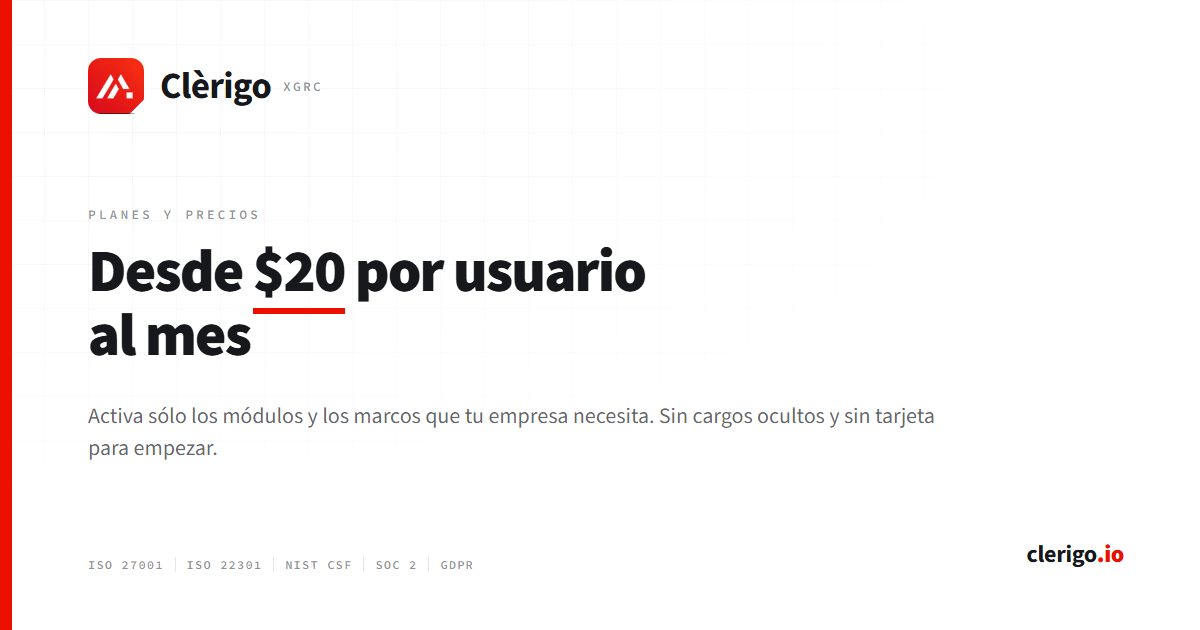
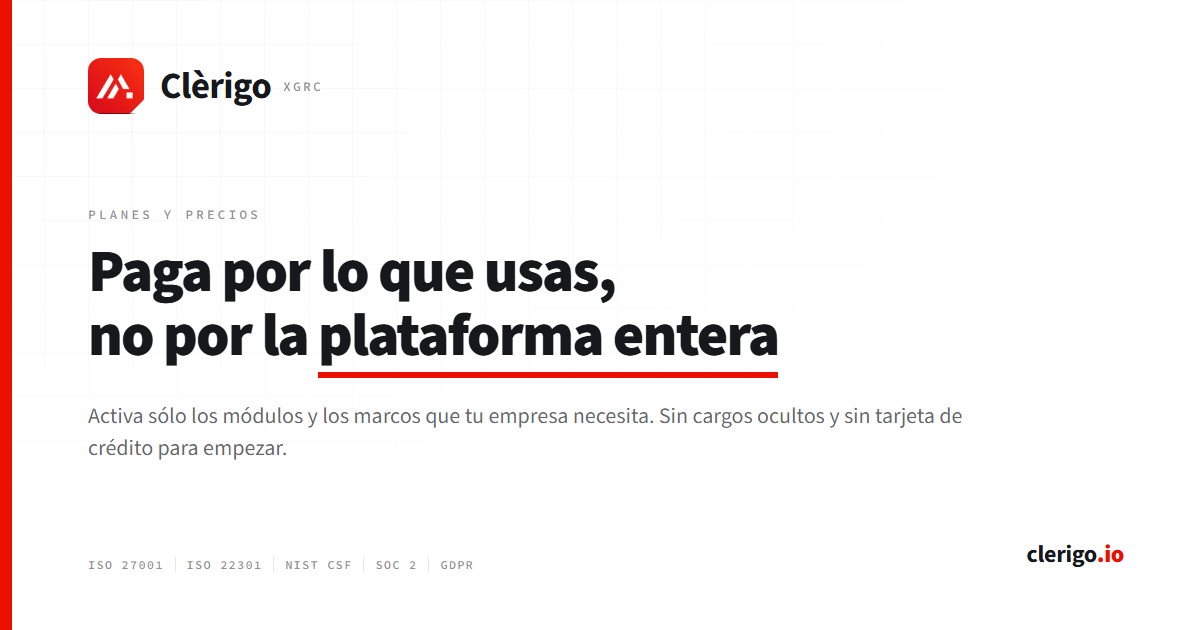
Fuera el precio de donde no debía estar: todavía no está decidido
LO PEOR ERA LO QUE PUSE YO

La ficha de datos estructurados declaraba `offers: { price: "20", currency:
"USD" }`. Un precio ahí NO es como un precio en una página: Google lo lee como
precio en firme y puede enseñarlo debajo del enlace en el resultado, sin
ninguno de los matices. A partir de ahí, toda conversación de venta empieza
anclada en esa cifra. Fuera.

Y la tarjeta de enlace decía «Desde $20 por usuario al mes». Una tarjeta se
pega en un chat y se queda ahí. Ahora dice el MODELO, que sí está decidido y
que además es lo que diferencia: «Paga por lo que usas, no por la plataforma
entera».

DÓNDE MÁS ESTABA

En la descripción de las dos páginas de planes —«Inversión flexible desde
$20/usuario/mes»— que viaja a cuatro etiquetas: description, og:description,
twitter:description y la ficha. Y en `seo.config.json`, en los dos idiomas.

Y en la respuesta del bloque de dudas. Se mantiene entera menos la cifra: lo
que se pregunta es cómo funciona el cobro por usuario, y eso se sigue
contestando —se facturan aparte, anualmente— sin decir cuánto.

LA GUARDA SE DA LA VUELTA

`seo/validar.cjs` exigía que el precio de la ficha fuera el de la página. Ahora
exige lo contrario: que la ficha NO declare precio mientras no esté decidido.
Una comprobación que ya no describe la realidad no se borra, se invierte —así
sigue impidiendo que alguien lo vuelva a poner sin pensarlo.

Cuando el precio esté decidido, se da la vuelta otra vez y vuelve a exigir que
[…]

Changed region(s): [[0.0617, 0.3921, 0.6475, 0.6032], [0.0617, 0.6937, 0.2467, 0.7238], [0.7708, 0.6333, 0.8017, 0.6635]]

diff --git a/es/precios.html b/es/precios.html
@@ -4,7 +4,7 @@
 <meta charset="UTF-8">
 <meta name="viewport" content="width=device-width, initial-scale=1.0">
 <title>Planes y Precios Transparentes | Clèrigo GRC</title>
-<meta name="description" content="Inversión flexible desde $20/usuario/mes. Elige y activa únicamente los módulos y marcos que tu empresa necesita sin cargos ocultos.">
+<meta name="description" content="Elige y activa únicamente los módulos y marcos que tu empresa necesita. Se paga por lo que se usa, sin cargos ocultos y sin tarjeta para empezar.">
 <link rel="canonical" href="https://clerigo.io/es/precios">
   <link rel="alternate" hreflang="en" href="https://clerigo.io/precios.html">
   <link rel="alternate" hreflang="es" href="https://clerigo.io/es/precios.html">
@@ -13,7 +13,7 @@
 <meta property="og:site_name" content="Clèrigo">
 <meta property="og:url" content="https://clerigo.io/es/precios">
 <meta property="og:title" content="Planes y Precios Transparentes | Clèrigo GRC">
-<meta property="og:description" content="Inversión flexible desde $20/usuario/mes. Elige y activa únicamente los módulos y marcos que tu empresa necesita sin cargos ocultos.">
+<meta property="og:description" content="Elige y activa únicamente los módulos y marcos que tu empresa necesita. Se paga por lo que se usa, sin cargos ocultos y sin tarjeta para empezar.">
 <meta property="og:image" content="https://clerigo.io/public/og/precios-og.png">
 <meta property="og:image:secure_url" content="https://clerigo.io/public/og/precios-og.png">
 <meta property="og:image:type" content="image/png">
@@ -26,7 +26,7 @@
 
 <meta name="twitter:card" content="summary_large_image">
 <meta name="twitter:title" content="Planes y Precios Transparentes | Clèrigo GRC">
-<meta name="twitter:description" content="Inversión flexible desde $20/usuario/mes. Elige y activa únicamente los módulos y marcos que tu empresa necesita sin cargos ocultos.">
+<meta name="twitter:description" content="Elige y activa únicamente los módulos y marcos que tu empresa necesita. Se paga por lo que se usa, sin cargos ocultos y sin tarjeta para empezar.">
 <meta name="twitter:image" content="https://clerigo.io/public/og/precios-og.png">
 <meta name="twitter:image:alt" content="Planes y Precios Transparentes | Clèrigo GRC">
 <meta name="theme-color" content="#0E0E0E">
@@ -35,7 +35,7 @@
 <link rel="icon" type="image/png" href="../favicon.png" sizes="160x160">
 <link rel="apple-touch-icon" href="../favicon.png">
 <noscript><style>.reveal { opacity: 1 !important; transform: none !important; }</style></noscript>
-<script type="application/ld+json">{"@context":"https://schema.org","@graph":[{"@type":"Organization","@id":"https://clerigo.io/#organizacion","name":"Clèrigo","alternateName":"Clèrigo XGRC","url":"https://clerigo.io/","logo":{"@type":"ImageObject","url":"https://clerigo.io/favicon.png","width":160,"height":160},"image":"https://clerigo.io/public/og/clerigo-og.png","email":"hello@clerigo.io","description":"Plataforma de Gobernanza, Riesgo y Cumplimiento que unifica riesgos, cumplimiento normativo, auditoría interna, control interno, ciberseguridad y privacidad.","knowsAbout":["software GRC","plataforma GRC","GRC","gobierno riesgo y cumplimiento","software de cumplimiento","software de gestión de riesgos","software de auditoría","herramienta GRC","sistema de gestión integrado","SGSI","sistemas de gestión ISO","automatización del cumplimiento","GRC en la nube","software GRC multiempresa","gestión de riesgos","cumplimiento normativo","cumplimiento regulatorio","auditoría interna","control interno","gobierno corporativo","ciberseguridad","privacidad y protección de datos","continuidad del negocio","gestión documental","firma digital","riesgo de terceros","gestión de proveedores","planes de acción","matriz de riesgos","gestión de procesos","declaración jurada","canal de denuncias","gestión de contratos","clasificación de la información","gestión de accesos","concienciación y formación","encuestas GRC","catálogo normativo","ISO 27001","ISO 27701","ISO 9001","ISO 22301","ISO 31000","ISO 37301","ISO 37001","ISO 42001","ISO 30301","NIST CSF","NIST 800-53","NIST Privacy Framework","SOC 2","PCI-DSS","GDPR","HIPAA","COBIT","COSO ERM","ITIL","SWIFT CSP","CIS Controls"],"areaServed":["República Dominicana","Latinoamérica"]},{"@type":"WebSite","@id":"https://clerigo.io/#sitio","name":"Clèrigo","url":"https://clerigo.io/","inLanguage":"es","publisher":{"@id":"https://clerigo.io/#organizacion"}},{"@type":"SoftwareApplication","@id":"https://clerigo.io/#producto","name":"Clèrigo XGRC","applicationCategory":"BusinessApplication","applicationSubCategory":"Software GRC","operatingSystem":"Navegador web","url":"https://clerigo.io/","publisher":{"@id":"https://clerigo.io/#organizacion"},"inLanguage":["es","en","fr","pt"],"description":"Software GRC que unifica riesgos, cumplimiento normativo, auditoría interna, control interno, ciberseguridad y privacidad en una sola plataforma.","featureList":["gestión de riesgos","cumplimiento normativo","cumplimiento regulatorio","auditoría interna","control interno","gobierno corporativo","ciberseguridad","privacidad y protección de datos","continuidad del negocio","gestión documental","firma digital","riesgo de terceros","gestión de proveedores","planes de acción","matriz de riesgos","gestión de procesos","declaración jurada","canal de denuncias","gestión de contratos","clasificación de la información","gestión de accesos","concienciación y formación","encuestas GRC","catálogo normativo"],"offers":{"@type":"Offer","price":"20","priceCurrency":"USD","url":"https://clerigo.io/precios","availability":"https://schema.org/InStock","priceSpecification":{"@type":"UnitPriceSpecification","price":"20","priceCurrency":"USD","unitText":"usuario / mes"}}},{"@type":"WebPage","@id":"https://clerigo.io/es/precios#pagina","name":"Planes y Precios Transparentes | Clèrigo GRC","description":"Inversión flexible desde $20/usuario/mes. Elige y activa únicamente los módulos y marcos que tu empresa necesita sin cargos ocultos.","url":"https://clerigo.io/es/precios","inLanguage":"es","isPartOf":{"@id":"https://clerigo.io/#sitio"},"about":{"@id":"https://clerigo.io/#producto"},"primaryImageOfPage":{"@type":"ImageObject","url":"https://clerigo.io/public/og/precios-og.png"},"breadcrumb":{"@id":"https://clerigo.io/es/precios#migas"}},{"@type":"BreadcrumbList","@id":"https://clerigo.io/es/precios#migas","itemListElement":[{"@type":"ListItem","position":1,"name":"Inicio","item":"https://clerigo.io/es/"},{"@type":"ListItem","position":2,"name":"Planes","item":"https://clerigo.io/es/precios"}]},{"@type":"SiteNavigationElement","name":"Marcos","url":"https://clerigo.io/es/marcos"},{"@type":"SiteNavigationElement","name":"Centro de Confianza","url":"https://clerigo.io/es/confianza"},{"@type":"SiteNavigationElement","name":"Planes","url":"https://clerigo.io/es/precios"},{"@type":"SiteNavigationElement","name":"Contacto","url":"https://clerigo.io/es/contacto"}]}</script>
+<script type="application/ld+json">{"@context":"https://schema.org","@graph":[{"@type":"Organization","@id":"https://clerigo.io/#organizacion","name":"Clèrigo","alternateName":"Clèrigo XGRC","url":"https://clerigo.io/","logo":{"@type":"ImageObject","url":"https://clerigo.io/favicon.png","width":160,"height":160},"image":"https://clerigo.io/public/og/clerigo-og.png","email":"hello@clerigo.io","description":"Plataforma de Gobernanza, Riesgo y Cumplimiento que unifica riesgos, cumplimiento normativo, auditoría interna, control interno, ciberseguridad y privacidad.","knowsAbout":["software GRC","plataforma GRC","GRC","gobierno riesgo y cumplimiento","software de cumplimiento","software de gestión de riesgos","software de auditoría","herramienta GRC","sistema de gestión integrado","SGSI","sistemas de gestión ISO","automatización del cumplimiento","GRC en la nube","software GRC multiempresa","gestión de riesgos","cumplimiento normativo","cumplimiento regulatorio","auditoría interna","control interno","gobierno corporativo","ciberseguridad","privacidad y protección de datos","continuidad del negocio","gestión documental","firma digital","riesgo de terceros","gestión de proveedores","planes de acción","matriz de riesgos","gestión de procesos","declaración jurada","canal de denuncias","gestión de contratos","clasificación de la información","gestión de accesos","concienciación y formación","encuestas GRC","catálogo normativo","ISO 27001","ISO 27701","ISO 9001","ISO 22301","ISO 31000","ISO 37301","ISO 37001","ISO 42001","ISO 30301","NIST CSF","NIST 800-53","NIST Privacy Framework","SOC 2","PCI-DSS","GDPR","HIPAA","COBIT","COSO ERM","ITIL","SWIFT CSP","CIS Controls"],"areaServed":["República Dominicana","Latinoamérica"]},{"@type":"WebSite","@id":"https://clerigo.io/#sitio","name":"Clèrigo","url":"https://clerigo.io/","inLanguage":"es","publisher":{"@id":"https://clerigo.io/#organizacion"}},{"@type":"SoftwareApplication","@id":"https://clerigo.io/#producto","name":"Clèrigo XGRC","applicationCategory":"BusinessApplication","applicationSubCategory":"Software GRC","operatingSystem":"Navegador web","url":"https://clerigo.io/","publisher":{"@id":"https://clerigo.io/#organizacion"},"inLanguage":["es","en","fr","pt"],"description":"Software GRC que unifica riesgos, cumplimiento normativo, auditoría interna, control interno, ciberseguridad y privacidad en una sola plataforma.","featureList":["gestión de riesgos","cumplimiento normativo","cumplimiento regulatorio","auditoría interna","control interno","gobierno corporativo","ciberseguridad","privacidad y protección de datos","continuidad del negocio","gestión documental","firma digital","riesgo de terceros","gestión de proveedores","planes de acción","matriz de riesgos","gestión de procesos","declaración jurada","canal de denuncias","gestión de contratos","clasificación de la información","gestión de accesos","concienciación y formación","encuestas GRC","catálogo normativo"]},{"@type":"WebPage","@id":"https://clerigo.io/es/precios#pagina","name":"Planes y Precios Transparentes | Clèrigo GRC","description":"Elige y activa únicamente los módulos y marcos que tu empresa necesita. Se paga por lo que se usa, sin cargos ocultos y sin tarjeta para empezar.","url":"https://clerigo.io/es/precios","inLanguage":"es","isPartOf":{"@id":"https://clerigo.io/#sitio"},"about":{"@id":"https://clerigo.io/#producto"},"primaryImageOfPage":{"@type":"ImageObject","url":"https://clerigo.io/public/og/precios-og.png"},"breadcrumb":{"@id":"https://clerigo.io/es/precios#migas"}},{"@type":"BreadcrumbList","@id":"https://clerigo.io/es/precios#migas","itemListElement":[{"@type":"ListItem","position":1,"name":"Inicio","item":"https://clerigo.io/es/"},{"@type":"ListItem","position":2,"name":"Planes","item":"https://clerigo.io/es/precios"}]},{"@type":"SiteNavigationElement","name":"Marcos","url":"https://clerigo.io/es/marcos"},{"@type":"SiteNavigationElement","name":"Centro de Confianza","url":"https://clerigo.io/es/confianza"},{"@type":"SiteNavigationElement","name":"Planes","url":"https://clerigo.io/es/precios"},{"@type":"SiteNavigationElement","name":"Contacto","url":"https://clerigo.io/es/contacto"}]}</script>
 <style>
 /* ── TOKENS — los mismos de index.html, sin una coma de diferencia ── */
 :root {
@@ -1177,7 +1177,7 @@ const modules = [
 const faqs = [
   {q:'¿Puedo activar módulos después?',a:'Sí. Puedes añadir o quitar módulos desde tu panel de administración en cualquier momento. El cambio aplica en el siguiente ciclo de facturación.'},
   {q:'¿Hay un período de prueba gratuito?',a:'Todos los planes incluyen 14 días de prueba gratuita con acceso completo a los módulos seleccionados. No se requiere tarjeta de crédito para comenzar.'},
-  {q:'¿Cuánto cuesta agregar usuarios?',a:'Cada módulo incluye 1 usuario. Los usuarios adicionales tienen un costo de $20 USD/usuario/mes, facturados anualmente. Para más de 200 usuarios o necesidades especiales, contáctanos para un plan Enterprise.'},
+  {q:'¿Cuánto cuesta agregar usuarios?',a:'Cada módulo incluye 1 usuario. Los usuarios adicionales se facturan aparte, con periodicidad anual. Escríbenos y te pasamos la propuesta para tu caso; para más de 200 usuarios o necesidades especiales hay plan Enterprise.'},
   {q:'¿Puedo integrar Clèrigo con otros sistemas?',a:'Sí. La plataforma incluye una API REST documentada para integrarse con tu ecosistema digital. También tiene conectores nativos con SharePoint, Teams y Power Apps.'},
   {q:'¿Cómo funciona la firma digital?',a:'Integramos con proveedores de firma digital certificados. Los documentos siguen un flujo de aprobación configurable antes de ser firmados y archivados automáticamente en SharePoint.'},
   {q:'¿Qué marcos regulatorios están preconfigurados?',a:'ISO 27001, ISO 22301, NIST CSF, PCI-DSS, SWIFT, BCR (Banco Central RD), SIMV, NORTIC A5/A6/A7, Ley 172-13 y más. Nuevos marcos se añaden regularmente.'},

diff --git a/precios.html b/precios.html
@@ -4,7 +4,7 @@
 <meta charset="UTF-8">
 <meta name="viewport" content="width=device-width, initial-scale=1.0">
 <title>Planes y Precios Transparentes | Clèrigo GRC</title>
-<meta name="description" content="Inversión flexible desde $20/usuario/mes. Elige y activa únicamente los módulos y marcos que tu empresa necesita sin cargos ocultos.">
+<meta name="description" content="Elige y activa únicamente los módulos y marcos que tu empresa necesita. Se paga por lo que se usa, sin cargos ocultos y sin tarjeta para empezar.">
 <link rel="canonical" href="https://clerigo.io/precios">
   <link rel="alternate" hreflang="en" href="https://clerigo.io/precios.html">
   <link rel="alternate" hreflang="es" href="https://clerigo.io/es/precios.html">
@@ -13,7 +13,7 @@
 <meta property="og:site_name" content="Clèrigo">
 <meta property="og:url" content="https://clerigo.io/precios">
 <meta property="og:title" content="Planes y Precios Transparentes | Clèrigo GRC">
-<meta property="og:description" content="Inversión flexible desde $20/usuario/mes. Elige y activa únicamente los módulos y marcos que tu empresa necesita sin cargos ocultos.">
+<meta property="og:description" content="Elige y activa únicamente los módulos y marcos que tu empresa necesita. Se paga por lo que se usa, sin cargos ocultos y sin tarjeta para empezar.">
 <meta property="og:image" content="https://clerigo.io/public/og/precios-og.png">
 <meta property="og:image:secure_url" content="https://clerigo.io/public/og/precios-og.png">
 <meta property="og:image:type" content="image/png">
@@ -24,7 +24,7 @@
 <meta property="og:locale:alternate" content="es_ES">
 <meta name="twitter:card" content="summary_large_image">
 <meta name="twitter:title" content="Planes y Precios Transparentes | Clèrigo GRC">
-<meta name="twitter:description" content="Inversión flexible desde $20/usuario/mes. Elige y activa únicamente los módulos y marcos que tu empresa necesita sin cargos ocultos.">
+<meta name="twitter:description" content="Elige y activa únicamente los módulos y marcos que tu empresa necesita. Se paga por lo que se usa, sin cargos ocultos y sin tarjeta para empezar.">
 <meta name="twitter:image" content="https://clerigo.io/public/og/precios-og.png">
 <meta name="twitter:image:alt" content="Planes y Precios Transparentes | Clèrigo GRC">
 <meta name="theme-color" content="#0E0E0E">
@@ -33,7 +33,7 @@
 <link rel="icon" type="image/png" href="favicon.png" sizes="160x160">
 <link rel="apple-touch-icon" href="favicon.png">
 <noscript><style>.reveal { opacity: 1 !important; transform: none !important; }</style></noscript>
-<script type="application/ld+json">{"@context":"https://schema.org","@graph":[{"@type":"Organization","@id":"https://clerigo.io/#organizacion","name":"Clèrigo","alternateName":"Clèrigo XGRC","url":"https://clerigo.io/","logo":{"@type":"ImageObject","url":"https://clerigo.io/favicon.png","width":160,"height":160},"image":"https://clerigo.io/public/og/clerigo-og.png","email":"hello@clerigo.io","description":"Governance, Risk and Compliance platform that unifies risk, regulatory compliance, internal audit, internal control, cybersecurity and privacy.","knowsAbout":["GRC software","GRC platform","GRC","governance risk and compliance","compliance software","risk management software","audit management software","GRC tool","integrated management system","ISMS","ISO management systems","compliance automation","cloud GRC","multi-tenant GRC software","risk management","regulatory compliance","compliance management","internal audit","internal control","corporate governance","cybersecurity","privacy and data protection","business continuity","document management","digital signature","third party risk management","vendor risk management","action plans","risk matrix","process management","conflict of interest disclosure","whistleblowing channel","contract management","information classification","access management","security awareness training","GRC surveys","regulatory catalogue","ISO 27001","ISO 27701","ISO 9001","ISO 22301","ISO 31000","ISO 37301","ISO 37001","ISO 42001","ISO 30301","NIST CSF","NIST 800-53","NIST Privacy Framework","SOC 2","PCI-DSS","GDPR","HIPAA","COBIT","COSO ERM","ITIL","SWIFT CSP","CIS Controls"],"areaServed":["Dominican Republic","Latin America"]},{"@type":"WebSite","@id":"https://clerigo.io/#sitio","name":"Clèrigo","url":"https://clerigo.io/","inLanguage":"en","publisher":{"@id":"https://clerigo.io/#organizacion"}},{"@type":"SoftwareApplication","@id":"https://clerigo.io/#producto","name":"Clèrigo XGRC","applicationCategory":"BusinessApplication","applicationSubCategory":"GRC Software","operatingSystem":"Web browser","url":"https://clerigo.io/","publisher":{"@id":"https://clerigo.io/#organizacion"},"inLanguage":["es","en","fr","pt"],"description":"GRC software that unifies risk, regulatory compliance, internal audit, internal control, cybersecurity and privacy in a single platform.","featureList":["risk management","regulatory compliance","compliance management","internal audit","internal control","corporate governance","cybersecurity","privacy and data protection","business continuity","document management","digital signature","third party risk management","vendor risk management","action plans","risk matrix","process management","conflict of interest disclosure","whistleblowing channel","contract management","information classification","access management","security awareness training","GRC surveys","regulatory catalogue"],"offers":{"@type":"Offer","price":"20","priceCurrency":"USD","url":"https://clerigo.io/precios","availability":"https://schema.org/InStock","priceSpecification":{"@type":"UnitPriceSpecification","price":"20","priceCurrency":"USD","unitText":"user / month"}}},{"@type":"WebPage","@id":"https://clerigo.io/precios#pagina","name":"Planes y Precios Transparentes | Clèrigo GRC","description":"Inversión flexible desde $20/usuario/mes. Elige y activa únicamente los módulos y marcos que tu empresa necesita sin cargos ocultos.","url":"https://clerigo.io/precios","inLanguage":"en","isPartOf":{"@id":"https://clerigo.io/#sitio"},"about":{"@id":"https://clerigo.io/#producto"},"primaryImageOfPage":{"@type":"ImageObject","url":"https://clerigo.io/public/og/precios-og.png"},"breadcrumb":{"@id":"https://clerigo.io/precios#migas"}},{"@type":"BreadcrumbList","@id":"https://clerigo.io/precios#migas","itemListElement":[{"@type":"ListItem","position":1,"name":"Home","item":"https://clerigo.io/"},{"@type":"ListItem","position":2,"name":"Plans","item":"https://clerigo.io/precios"}]},{"@type":"SiteNavigationElement","name":"Frameworks","url":"https://clerigo.io/frameworks"},{"@type":"SiteNavigationElement","name":"Trust Center","url":"https://clerigo.io/trustcenter"},{"@type":"SiteNavigationElement","name":"Plans","url":"https://clerigo.io/precios"},{"@type":"SiteNavigationElement","name":"Contact","url":"https://clerigo.io/contact"}]}</script>
+<script type="application/ld+json">{"@context":"https://schema.org","@graph":[{"@type":"Organization","@id":"https://clerigo.io/#organizacion","name":"Clèrigo","alternateName":"Clèrigo XGRC","url":"https://clerigo.io/","logo":{"@type":"ImageObject","url":"https://clerigo.io/favicon.png","width":160,"height":160},"image":"https://clerigo.io/public/og/clerigo-og.png","email":"hello@clerigo.io","description":"Governance, Risk and Compliance platform that unifies risk, regulatory compliance, internal audit, internal control, cybersecurity and privacy.","knowsAbout":["GRC software","GRC platform","GRC","governance risk and compliance","compliance software","risk management software","audit management software","GRC tool","integrated management system","ISMS","ISO management systems","compliance automation","cloud GRC","multi-tenant GRC software","risk management","regulatory compliance","compliance management","internal audit","internal control","corporate governance","cybersecurity","privacy and data protection","business continuity","document management","digital signature","third party risk management","vendor risk management","action plans","risk matrix","process management","conflict of interest disclosure","whistleblowing channel","contract management","information classification","access management","security awareness training","GRC surveys","regulatory catalogue","ISO 27001","ISO 27701","ISO 9001","ISO 22301","ISO 31000","ISO 37301","ISO 37001","ISO 42001","ISO 30301","NIST CSF","NIST 800-53","NIST Privacy Framework","SOC 2","PCI-DSS","GDPR","HIPAA","COBIT","COSO ERM","ITIL","SWIFT CSP","CIS Controls"],"areaServed":["Dominican Republic","Latin America"]},{"@type":"WebSite","@id":"https://clerigo.io/#sitio","name":"Clèrigo","url":"https://clerigo.io/","inLanguage":"en","publisher":{"@id":"https://clerigo.io/#organizacion"}},{"@type":"SoftwareApplication","@id":"https://clerigo.io/#producto","name":"Clèrigo XGRC","applicationCategory":"BusinessApplication","applicationSubCategory":"GRC Software","operatingSystem":"Web browser","url":"https://clerigo.io/","publisher":{"@id":"https://clerigo.io/#organizacion"},"inLanguage":["es","en","fr","pt"],"description":"GRC software that unifies risk, regulatory compliance, internal audit, internal control, cybersecurity and privacy in a single platform.","featureList":["risk management","regulatory compliance","compliance management","internal audit","internal control","corporate governance","cybersecurity","privacy and data protection","business continuity","document management","digital signature","third party risk management","vendor risk management","action plans","risk matrix","process management","conflict of interest disclosure","whistleblowing channel","contract management","information classification","access management","security awareness training","GRC surveys","regulatory catalogue"]},{"@type":"WebPage","@id":"https://clerigo.io/precios#pagina","name":"Planes y Precios Transparentes | Clèrigo GRC","description":"Elige y activa únicamente los módulos y marcos que tu empresa necesita. Se paga por lo que se usa, sin cargos ocultos y sin tarjeta para empezar.","url":"https://clerigo.io/precios","inLanguage":"en","isPartOf":{"@id":"https://clerigo.io/#sitio"},"about":{"@id":"https://clerigo.io/#producto"},"primaryImageOfPage":{"@type":"ImageObject","url":"https://clerigo.io/public/og/precios-og.png"},"breadcrumb":{"@id":"https://clerigo.io/precios#migas"}},{"@type":"BreadcrumbList","@id":"https://clerigo.io/precios#migas","itemListElement":[{"@type":"ListItem","position":1,"name":"Home","item":"https://clerigo.io/"},{"@type":"ListItem","position":2,"name":"Plans","item":"https://clerigo.io/precios"}]},{"@type":"SiteNavigationElement","name":"Frameworks","url":"https://clerigo.io/frameworks"},{"@type":"SiteNavigationElement","name":"Trust Center","url":"https://clerigo.io/trustcenter"},{"@type":"SiteNavigationElement","name":"Plans","url":"https://clerigo.io/precios"},{"@type":"SiteNavigationElement","name":"Contact","url":"https://clerigo.io/contact"}]}</script>
 <style>
 /* ── TOKENS — los mismos de index.html, sin una coma de diferencia ── */
 :root {
@@ -1173,7 +1173,7 @@ const modules = [
 const faqs = [
   {q:'¿Puedo activar módulos después?',a:'Sí. Puedes añadir o quitar módulos desde tu panel de administración en cualquier momento. El cambio aplica en el siguiente ciclo de facturación.'},
   {q:'¿Hay un período de prueba gratuito?',a:'Todos los planes incluyen 14 días de prueba gratuita con acceso completo a los módulos seleccionados. No se requiere tarjeta de crédito para comenzar.'},
-  {q:'¿Cuánto cuesta agregar usuarios?',a:'Cada módulo incluye 1 usuario. Los usuarios adicionales tienen un costo de $20 USD/usuario/mes, facturados anualmente. Para más de 200 usuarios o necesidades especiales, contáctanos para un plan Enterprise.'},
+  {q:'¿Cuánto cuesta agregar usuarios?',a:'Cada módulo incluye 1 usuario. Los usuarios adicionales se facturan aparte, con periodicidad anual. Escríbenos y te pasamos la propuesta para tu caso; para más de 200 usuarios o necesidades especiales hay plan Enterprise.'},
   {q:'¿Puedo integrar Clèrigo con otros sistemas?',a:'Sí. La plataforma incluye una API REST documentada para integrarse con tu ecosistema digital. También tiene conectores nativos con SharePoint, Teams y Power Apps.'},
   {q:'¿Cómo funciona la firma digital?',a:'Integramos con proveedores de firma digital certificados. Los documentos siguen un flujo de aprobación configurable antes de ser firmados y archivados automáticamente en SharePoint.'},
   {q:'¿Qué marcos regulatorios están preconfigurados?',a:'ISO 27001, ISO 22301, NIST CSF, PCI-DSS, SWIFT, BCR (Banco Central RD), SIMV, NORTIC A5/A6/A7, Ley 172-13 y más. Nuevos marcos se añaden regularmente.'},

diff --git a/es/index.html b/es/index.html
@@ -29,7 +29,7 @@
 <meta name="twitter:image:alt" content="Clèrigo | Software GRC de Gobernanza, Riesgo y Cumplimiento">
 <meta name="theme-color" content="#0E0E0E">
 <link rel="image_src" href="https://clerigo.io/public/og/clerigo-og.png">
-<script type="application/ld+json">{"@context":"https://schema.org","@graph":[{"@type":"Organization","@id":"https://clerigo.io/#organizacion","name":"Clèrigo","alternateName":"Clèrigo XGRC","url":"https://clerigo.io/","logo":{"@type":"ImageObject","url":"https://clerigo.io/favicon.png","width":160,"height":160},"image":"https://clerigo.io/public/og/clerigo-og.png","email":"hello@clerigo.io","description":"Plataforma de Gobernanza, Riesgo y Cumplimiento que unifica riesgos, cumplimiento normativo, auditoría interna, control interno, ciberseguridad y privacidad.","knowsAbout":["software GRC","plataforma GRC","GRC","gobierno riesgo y cumplimiento","software de cumplimiento","software de gestión de riesgos","software de auditoría","herramienta GRC","sistema de gestión integrado","SGSI","sistemas de gestión ISO","automatización del cumplimiento","GRC en la nube","software GRC multiempresa","gestión de riesgos","cumplimiento normativo","cumplimiento regulatorio","auditoría interna","control interno","gobierno corporativo","ciberseguridad","privacidad y protección de datos","continuidad del negocio","gestión documental","firma digital","riesgo de terceros","gestión de proveedores","planes de acción","matriz de riesgos","gestión de procesos","declaración jurada","canal de denuncias","gestión de contratos","clasificación de la información","gestión de accesos","concienciación y formación","encuestas GRC","catálogo normativo","ISO 27001","ISO 27701","ISO 9001","ISO 22301","ISO 31000","ISO 37301","ISO 37001","ISO 42001","ISO 30301","NIST CSF","NIST 800-53","NIST Privacy Framework","SOC 2","PCI-DSS","GDPR","HIPAA","COBIT","COSO ERM","ITIL","SWIFT CSP","CIS Controls"],"areaServed":["República Dominicana","Latinoamérica"]},{"@type":"WebSite","@id":"https://clerigo.io/#sitio","name":"Clèrigo","url":"https://clerigo.io/","inLanguage":"es","publisher":{"@id":"https://clerigo.io/#organizacion"}},{"@type":"SoftwareApplication","@id":"https://clerigo.io/#producto","name":"Clèrigo XGRC","applicationCategory":"BusinessApplication","applicationSubCategory":"Software GRC","operatingSystem":"Navegador web","url":"https://clerigo.io/","publisher":{"@id":"https://clerigo.io/#organizacion"},"inLanguage":["es","en","fr","pt"],"description":"Software GRC que unifica riesgos, cumplimiento normativo, auditoría interna, control interno, ciberseguridad y privacidad en una sola plataforma.","featureList":["gestión de riesgos","cumplimiento normativo","cumplimiento regulatorio","auditoría interna","control interno","gobierno corporativo","ciberseguridad","privacidad y protección de datos","continuidad del negocio","gestión documental","firma digital","riesgo de terceros","gestión de proveedores","planes de acción","matriz de riesgos","gestión de procesos","declaración jurada","canal de denuncias","gestión de contratos","clasificación de la información","gestión de accesos","concienciación y formación","encuestas GRC","catálogo normativo"],"offers":{"@type":"Offer","price":"20","priceCurrency":"USD","url":"https://clerigo.io/precios","availability":"https://schema.org/InStock","priceSpecification":{"@type":"UnitPriceSpecification","price":"20","priceCurrency":"USD","unitText":"usuario / mes"}}},{"@type":"WebPage","@id":"https://clerigo.io/es/#pagina","name":"Clèrigo | Software GRC de Gobernanza, Riesgo y Cumplimiento","description":"Software GRC que unifica riesgos, cumplimiento normativo, auditoría interna, control interno, ciberseguridad y privacidad en una sola plataforma.","url":"https://clerigo.io/es/","inLanguage":"es","isPartOf":{"@id":"https://clerigo.io/#sitio"},"about":{"@id":"https://clerigo.io/#producto"},"primaryImageOfPage":{"@type":"ImageObject","url":"https://clerigo.io/public/og/clerigo-og.png"},"breadcrumb":{"@id":"https://clerigo.io/es/#migas"}},{"@type":"BreadcrumbList","@id":"https://clerigo.io/es/#migas","itemListElement":[{"@type":"ListItem","position":1,"name":"Inicio","item":"https://clerigo.io/es/"}]},{"@type":"SiteNavigationElement","name":"Marcos","url":"https://clerigo.io/es/marcos"},{"@type":"SiteNavigationElement","name":"Centro de Confianza","url":"https://clerigo.io/es/confianza"},{"@type":"SiteNavigationElement","name":"Planes","url":"https://clerigo.io/es/precios"},{"@type":"SiteNavigationElement","name":"Contacto","url":"https://clerigo.io/es/contacto"}]}</script>
+<script type="application/ld+json">{"@context":"https://schema.org","@graph":[{"@type":"Organization","@id":"https://clerigo.io/#organizacion","name":"Clèrigo","alternateName":"Clèrigo XGRC","url":"https://clerigo.io/","logo":{"@type":"ImageObject","url":"https://clerigo.io/favicon.png","width":160,"height":160},"image":"https://clerigo.io/public/og/clerigo-og.png","email":"hello@clerigo.io","description":"Plataforma de Gobernanza, Riesgo y Cumplimiento que unifica riesgos, cumplimiento normativo, auditoría interna, control interno, ciberseguridad y privacidad.","knowsAbout":["software GRC","plataforma GRC","GRC","gobierno riesgo y cumplimiento","software de cumplimiento","software de gestión de riesgos","software de auditoría","herramienta GRC","sistema de gestión integrado","SGSI","sistemas de gestión ISO","automatización del cumplimiento","GRC en la nube","software GRC multiempresa","gestión de riesgos","cumplimiento normativo","cumplimiento regulatorio","auditoría interna","control interno","gobierno corporativo","ciberseguridad","privacidad y protección de datos","continuidad del negocio","gestión documental","firma digital","riesgo de terceros","gestión de proveedores","planes de acción","matriz de riesgos","gestión de procesos","declaración jurada","canal de denuncias","gestión de contratos","clasificación de la información","gestión de accesos","concienciación y formación","encuestas GRC","catálogo normativo","ISO 27001","ISO 27701","ISO 9001","ISO 22301","ISO 31000","ISO 37301","ISO 37001","ISO 42001","ISO 30301","NIST CSF","NIST 800-53","NIST Privacy Framework","SOC 2","PCI-DSS","GDPR","HIPAA","COBIT","COSO ERM","ITIL","SWIFT CSP","CIS Controls"],"areaServed":["República Dominicana","Latinoamérica"]},{"@type":"WebSite","@id":"https://clerigo.io/#sitio","name":"Clèrigo","url":"https://clerigo.io/","inLanguage":"es","publisher":{"@id":"https://clerigo.io/#organizacion"}},{"@type":"SoftwareApplication","@id":"https://clerigo.io/#producto","name":"Clèrigo XGRC","applicationCategory":"BusinessApplication","applicationSubCategory":"Software GRC","operatingSystem":"Navegador web","url":"https://clerigo.io/","publisher":{"@id":"https://clerigo.io/#organizacion"},"inLanguage":["es","en","fr","pt"],"description":"Software GRC que unifica riesgos, cumplimiento normativo, auditoría interna, control interno, ciberseguridad y privacidad en una sola plataforma.","featureList":["gestión de riesgos","cumplimiento normativo","cumplimiento regulatorio","auditoría interna","control interno","gobierno corporativo","ciberseguridad","privacidad y protección de datos","continuidad del negocio","gestión documental","firma digital","riesgo de terceros","gestión de proveedores","planes de acción","matriz de riesgos","gestión de procesos","declaración jurada","canal de denuncias","gestión de contratos","clasificación de la información","gestión de accesos","concienciación y formación","encuestas GRC","catálogo normativo"]},{"@type":"WebPage","@id":"https://clerigo.io/es/#pagina","name":"Clèrigo | Software GRC de Gobernanza, Riesgo y Cumplimiento","description":"Software GRC que unifica riesgos, cumplimiento normativo, auditoría interna, control interno, ciberseguridad y privacidad en una sola plataforma.","url":"https://clerigo.io/es/","inLanguage":"es","isPartOf":{"@id":"https://clerigo.io/#sitio"},"about":{"@id":"https://clerigo.io/#producto"},"primaryImageOfPage":{"@type":"ImageObject","url":"https://clerigo.io/public/og/clerigo-og.png"},"breadcrumb":{"@id":"https://clerigo.io/es/#migas"}},{"@type":"BreadcrumbList","@id":"https://clerigo.io/es/#migas","itemListElement":[{"@type":"ListItem","position":1,"name":"Inicio","item":"https://clerigo.io/es/"}]},{"@type":"SiteNavigationElement","name":"Marcos","url":"https://clerigo.io/es/marcos"},{"@type":"SiteNavigationElement","name":"Centro de Confianza","url":"https://clerigo.io/es/confianza"},{"@type":"SiteNavigationElement","name":"Planes","url":"https://clerigo.io/es/precios"},{"@type":"SiteNavigationElement","name":"Contacto","url":"https://clerigo.io/es/contacto"}]}</script>
 <link href="https://fonts.googleapis.com/css2?family=Source+Sans+3:ital,wght@0,300;0,400;0,600;0,700;0,900;1,300;1,400&family=Source+Code+Pro:wght@400;600&display=swap" rel="stylesheet">
 <link rel="icon" type="image/png" href="../favicon.png" sizes="160x160">
 

diff --git a/index.html b/index.html
@@ -29,7 +29,7 @@
 <meta name="twitter:image:alt" content="Clèrigo | GRC Software for Governance, Risk and Compliance">
 <meta name="theme-color" content="#0E0E0E">
 <link rel="image_src" href="https://clerigo.io/public/og/clerigo-og.png">
-<script type="application/ld+json">{"@context":"https://schema.org","@graph":[{"@type":"Organization","@id":"https://clerigo.io/#organizacion","name":"Clèrigo","alternateName":"Clèrigo XGRC","url":"https://clerigo.io/","logo":{"@type":"ImageObject","url":"https://clerigo.io/favicon.png","width":160,"height":160},"image":"https://clerigo.io/public/og/clerigo-og.png","email":"hello@clerigo.io","description":"Governance, Risk and Compliance platform that unifies risk, regulatory compliance, internal audit, internal control, cybersecurity and privacy.","knowsAbout":["GRC software","GRC platform","GRC","governance risk and compliance","compliance software","risk management software","audit management software","GRC tool","integrated management system","ISMS","ISO management systems","compliance automation","cloud GRC","multi-tenant GRC software","risk management","regulatory compliance","compliance management","internal audit","internal control","corporate governance","cybersecurity","privacy and data protection","business continuity","document management","digital signature","third party risk management","vendor risk management","action plans","risk matrix","process management","conflict of interest disclosure","whistleblowing channel","contract management","information classification","access management","security awareness training","GRC surveys","regulatory catalogue","ISO 27001","ISO 27701","ISO 9001","ISO 22301","ISO 31000","ISO 37301","ISO 37001","ISO 42001","ISO 30301","NIST CSF","NIST 800-53","NIST Privacy Framework","SOC 2","PCI-DSS","GDPR","HIPAA","COBIT","COSO ERM","ITIL","SWIFT CSP","CIS Controls"],"areaServed":["Dominican Republic","Latin America"]},{"@type":"WebSite","@id":"https://clerigo.io/#sitio","name":"Clèrigo","url":"https://clerigo.io/","inLanguage":"en","publisher":{"@id":"https://clerigo.io/#organizacion"}},{"@type":"SoftwareApplication","@id":"https://clerigo.io/#producto","name":"Clèrigo XGRC","applicationCategory":"BusinessApplication","applicationSubCategory":"GRC Software","operatingSystem":"Web browser","url":"https://clerigo.io/","publisher":{"@id":"https://clerigo.io/#organizacion"},"inLanguage":["es","en","fr","pt"],"description":"GRC software that unifies risk, regulatory compliance, internal audit, internal control, cybersecurity and privacy in a single platform.","featureList":["risk management","regulatory compliance","compliance management","internal audit","internal control","corporate governance","cybersecurity","privacy and data protection","business continuity","document management","digital signature","third party risk management","vendor risk management","action plans","risk matrix","process management","conflict of interest disclosure","whistleblowing channel","contract management","information classification","access management","security awareness training","GRC surveys","regulatory catalogue"],"offers":{"@type":"Offer","price":"20","priceCurrency":"USD","url":"https://clerigo.io/precios","availability":"https://schema.org/InStock","priceSpecification":{"@type":"UnitPriceSpecification","price":"20","priceCurrency":"USD","unitText":"user / month"}}},{"@type":"WebPage","@id":"https://clerigo.io/#pagina","name":"Clèrigo | GRC Software for Governance, Risk and Compliance","description":"GRC software that unifies risk, regulatory compliance, internal audit, internal control, cybersecurity and privacy in a single platform.","url":"https://clerigo.io/","inLanguage":"en","isPartOf":{"@id":"https://clerigo.io/#sitio"},"about":{"@id":"https://clerigo.io/#producto"},"primaryImageOfPage":{"@type":"ImageObject","url":"https://clerigo.io/public/og/clerigo-og.png"},"breadcrumb":{"@id":"https://clerigo.io/#migas"}},{"@type":"BreadcrumbList","@id":"https://clerigo.io/#migas","itemListElement":[{"@type":"ListItem","position":1,"name":"Home","item":"https://clerigo.io/"}]},{"@type":"SiteNavigationElement","name":"Frameworks","url":"https://clerigo.io/frameworks"},{"@type":"SiteNavigationElement","name":"Trust Center","url":"https://clerigo.io/trustcenter"},{"@type":"SiteNavigationElement","name":"Plans","url":"https://clerigo.io/precios"},{"@type":"SiteNavigationElement","name":"Contact","url":"https://clerigo.io/contact"}]}</script>
+<script type="application/ld+json">{"@context":"https://schema.org","@graph":[{"@type":"Organization","@id":"https://clerigo.io/#organizacion","name":"Clèrigo","alternateName":"Clèrigo XGRC","url":"https://clerigo.io/","logo":{"@type":"ImageObject","url":"https://clerigo.io/favicon.png","width":160,"height":160},"image":"https://clerigo.io/public/og/clerigo-og.png","email":"hello@clerigo.io","description":"Governance, Risk and Compliance platform that unifies risk, regulatory compliance, internal audit, internal control, cybersecurity and privacy.","knowsAbout":["GRC software","GRC platform","GRC","governance risk and compliance","compliance software","risk management software","audit management software","GRC tool","integrated management system","ISMS","ISO management systems","compliance automation","cloud GRC","multi-tenant GRC software","risk management","regulatory compliance","compliance management","internal audit","internal control","corporate governance","cybersecurity","privacy and data protection","business continuity","document management","digital signature","third party risk management","vendor risk management","action plans","risk matrix","process management","conflict of interest disclosure","whistleblowing channel","contract management","information classification","access management","security awareness training","GRC surveys","regulatory catalogue","ISO 27001","ISO 27701","ISO 9001","ISO 22301","ISO 31000","ISO 37301","ISO 37001","ISO 42001","ISO 30301","NIST CSF","NIST 800-53","NIST Privacy Framework","SOC 2","PCI-DSS","GDPR","HIPAA","COBIT","COSO ERM","ITIL","SWIFT CSP","CIS Controls"],"areaServed":["Dominican Republic","Latin America"]},{"@type":"WebSite","@id":"https://clerigo.io/#sitio","name":"Clèrigo","url":"https://clerigo.io/","inLanguage":"en","publisher":{"@id":"https://clerigo.io/#organizacion"}},{"@type":"SoftwareApplication","@id":"https://clerigo.io/#producto","name":"Clèrigo XGRC","applicationCategory":"BusinessApplication","applicationSubCategory":"GRC Software","operatingSystem":"Web browser","url":"https://clerigo.io/","publisher":{"@id":"https://clerigo.io/#organizacion"},"inLanguage":["es","en","fr","pt"],"description":"GRC software that unifies risk, regulatory compliance, internal audit, internal control, cybersecurity and privacy in a single platform.","featureList":["risk management","regulatory compliance","compliance management","internal audit","internal control","corporate governance","cybersecurity","privacy and data protection","business continuity","document management","digital signature","third party risk management","vendor risk management","action plans","risk matrix","process management","conflict of interest disclosure","whistleblowing channel","contract management","information classification","access management","security awareness training","GRC surveys","regulatory catalogue"]},{"@type":"WebPage","@id":"https://clerigo.io/#pagina","name":"Clèrigo | GRC Software for Governance, Risk and Compliance","description":"GRC software that unifies risk, regulatory compliance, internal audit, internal control, cybersecurity and privacy in a single platform.","url":"https://clerigo.io/","inLanguage":"en","isPartOf":{"@id":"https://clerigo.io/#sitio"},"about":{"@id":"https://clerigo.io/#producto"},"primaryImageOfPage":{"@type":"ImageObject","url":"https://clerigo.io/public/og/clerigo-og.png"},"breadcrumb":{"@id":"https://clerigo.io/#migas"}},{"@type":"BreadcrumbList","@id":"https://clerigo.io/#migas","itemListElement":[{"@type":"ListItem","position":1,"name":"Home","item":"https://clerigo.io/"}]},{"@type":"SiteNavigationElement","name":"Frameworks","url":"https://clerigo.io/frameworks"},{"@type":"SiteNavigationElement","name":"Trust Center","url":"https://clerigo.io/trustcenter"},{"@type":"SiteNavigationElement","name":"Plans","url":"https://clerigo.io/precios"},{"@type":"SiteNavigationElement","name":"Contact","url":"https://clerigo.io/contact"}]}</script>
 <link href="https://fonts.googleapis.com/css2?family=Source+Sans+3:ital,wght@0,300;0,400;0,600;0,700;0,900;1,300;1,400&family=Source+Code+Pro:wght@400;600&display=swap" rel="stylesheet">
 <link rel="icon" type="image/png" href="favicon.png" sizes="160x160">
 
